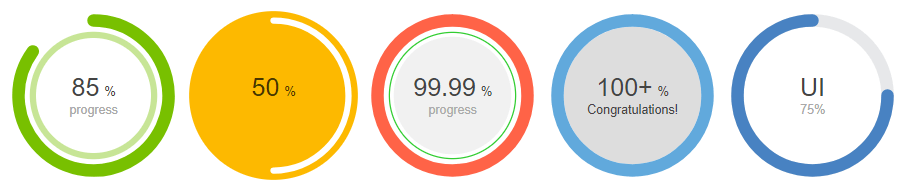
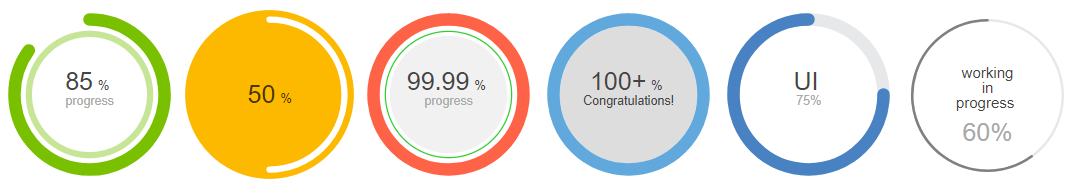
Fix #15 and #17 and release 0.9.9.

diff --git a/src/circle-progress.component.ts b/src/circle-progress.component.ts
@@ -24,11 +24,11 @@ export interface CircleProgressOptionsInterface {
   innerStrokeColor?: string;
   innerStrokeWidth?: number;
   titleFormat?: Function;
-  title?: string;
+  title?: string|Array<String>;
   titleColor?: string;
   titleFontSize?: string;
   subtitleFormat?: Function;
-  subtitle?: string;
+  subtitle?: string|Array<String>;
   subtitleColor?: string;
   subtitleFontSize?: string;
   animation?: boolean;
@@ -65,11 +65,11 @@ export class CircleProgressOptions implements CircleProgressOptionsInterface {
   innerStrokeColor = '#C7E596';
   innerStrokeWidth = 4;
   titleFormat = undefined;
-  title = 'auto';
+  title: string|Array<String> = 'auto';
   titleColor = '#444444';
   titleFontSize = '20';
   subtitleFormat = undefined;
-  subtitle = 'progress';
+  subtitle: string|Array<String> = 'progress';
   subtitleColor = '#A9A9A9';
   subtitleFontSize = '10';
   animation = true;
@@ -106,27 +106,34 @@ export class CircleProgressOptions implements CircleProgressOptionsInterface {
         [attr.stroke-width]="svg.circle.strokeWidth"/>
       <path 
         [attr.d]="svg.path.d" 
-        [attr.stroke]="svg.path.stroke" 
+        [attr.stroke]="svg.path.stroke"
         [attr.stroke-width]="svg.path.strokeWidth" 
         [attr.stroke-linecap]="svg.path.strokeLinecap"
         [attr.fill]="svg.path.fill"/>
-      <text *ngIf="options.showTitle" 
-        [attr.text-anchor]="svg.title.textAnchor" 
-        [attr.x]="svg.title.x" 
-        [attr.y]="svg.title.y">
-        <tspan 
-          [attr.font-size]="svg.title.fontSize" 
-          [attr.fill]="svg.title.color">{{svg.title.text}}</tspan>
-        <tspan *ngIf="options.showUnits" 
+      <text *ngIf="options.showTitle || options.showUnits || options.showSubtitle" 
+        alignment-baseline="baseline"
+        [attr.x]="svg.circle.cx"
+        [attr.y]="svg.circle.cy"
+        [attr.text-anchor]="svg.title.textAnchor">
+        <ng-container *ngIf="options.showTitle">
+          <tspan *ngFor="let tspan of svg.title.tspans"
+            [attr.x]="svg.title.x"
+            [attr.y]="svg.title.y"
+            [attr.dy]="tspan.dy"
+            [attr.font-size]="svg.title.fontSize" 
+            [attr.fill]="svg.title.color">{{tspan.span}}</tspan>
+        </ng-container>
+        <tspan *ngIf="options.showUnits"
           [attr.font-size]="svg.units.fontSize"
           [attr.fill]="svg.units.color">{{svg.units.text}}</tspan>
-      </text>
-      <text *ngIf="options.showSubtitle"
-        [attr.text-anchor]="svg.subtitle.textAnchor" 
-        [attr.fill]="svg.subtitle.color" 
-        [attr.x]="svg.subtitle.x"
-        [attr.y]="svg.subtitle.y">
-        <tspan [attr.font-size]="svg.subtitle.fontSize">{{svg.subtitle.text}}</tspan>
+        <ng-container *ngIf="options.showSubtitle">
+          <tspan *ngFor="let tspan of svg.subtitle.tspans"
+            [attr.x]="svg.subtitle.x"
+            [attr.y]="svg.subtitle.y"
+            [attr.dy]="tspan.dy"
+            [attr.font-size]="svg.subtitle.fontSize"
+            [attr.fill]="svg.subtitle.color">{{tspan.span}}</tspan>
+        </ng-container>
       </text>
     </svg>  
   `
@@ -161,12 +168,12 @@ export class CircleProgressComponent implements OnChanges {
   @Input() innerStrokeWidth: string | number;
 
   @Input() titleFormat: Function;
-  @Input() title: string;
+  @Input() title: string|Array<String>;
   @Input() titleColor: string;
   @Input() titleFontSize: string;
 
   @Input() subtitleFormat: Function;
-  @Input() subtitle: string;
+  @Input() subtitle: string|string[];
   @Input() subtitleColor: string;
   @Input() subtitleFontSize: string;
 
@@ -273,7 +280,85 @@ export class CircleProgressComponent implements OnChanges {
     let titleTextPercent = titlePercent > this.options.maxPercent ?
       `${this.options.maxPercent.toFixed(this.options.toFixed)}+` : titlePercent.toFixed(this.options.toFixed);
     let subtitlePercent = this.options.animateSubtitle ? percent : this.options.percent;
-    // assemble all
+    // get title object
+    let title = {
+      x: centre.x,
+      y: centre.y,
+      textAnchor: 'middle',
+      color: this.options.titleColor,
+      fontSize: this.options.titleFontSize,
+      texts: [],
+      tspans: []
+    };
+    // from v0.9.9, both title and titleFormat(...) may be an array of string.
+    if(this.options.titleFormat !== undefined && this.options.titleFormat.constructor.name === 'Function'){
+      let formatted = this.options.titleFormat(titlePercent);
+      if(formatted instanceof Array){
+        title.texts = [...formatted];
+      }else{
+        title.texts.push(formatted.toString());
+      }
+    }else{
+      if(this.options.title === 'auto'){
+        title.texts.push(titleTextPercent);
+      }else{
+        if(this.options.title instanceof Array){
+          title.texts = [...this.options.title]
+        }else{
+          title.texts.push(this.options.title.toString());
+        }
+      }
+    }
+    // get subtitle object
+    let subtitle = {
+      x: centre.x,
+      y: centre.y,
+      textAnchor: 'middle',
+      color: this.options.subtitleColor,
+      fontSize: this.options.subtitleFontSize,
+      texts: [],
+      tspans: []
+    }
+    // from v0.9.9, both subtitle and subtitleFormat(...) may be an array of string.
+    if(this.options.subtitleFormat !== undefined && this.options.subtitleFormat.constructor.name === 'Function'){
+      let formatted = this.options.subtitleFormat(subtitlePercent);
+      if(formatted instanceof Array){
+        subtitle.texts = [...formatted];
+      }else{
+        subtitle.texts.push(formatted.toString());
+      }
+    }else{
+      if(this.options.subtitle instanceof Array){
+        subtitle.texts = [...this.options.subtitle]
+      }else{
+        subtitle.texts.push(this.options.subtitle.toString());
+      }
+    }
+    // get units object
+    let units = {
+      text: `${this.options.units}`,
+      fontSize: this.options.unitsFontSize,
+      color: this.options.unitsColor
+    }
+    // get total count of text lines to be shown
+    let rowCount = 0, rowNum = 1;
+    this.options.showTitle && (rowCount += title.texts.length);
+    this.options.showSubtitle && (rowCount += subtitle.texts.length);
+    // calc dy for each tspan for title
+    if(this.options.showTitle){
+      for(let span of title.texts){
+        title.tspans.push({span: span, dy: this.getRelativeY(rowNum, rowCount)});
+        rowNum++;
+      }
+    }
+    // calc dy for each tspan for subtitle
+    if(this.options.showSubtitle){
+      for(let span of subtitle.texts){
+        subtitle.tspans.push({span: span, dy: this.getRelativeY(rowNum, rowCount)})
+        rowNum++;
+      }
+    }
+    // Bring it all together
     this.svg = {
       width: boxSize,
       height: boxSize,
@@ -303,32 +388,16 @@ export class CircleProgressComponent implements OnChanges {
         stroke: this.options.innerStrokeColor,
         strokeWidth: this.options.innerStrokeWidth,
       },
-      title: {
-        x: centre.x,
-        y: centre.y,
-        textAnchor: 'middle',
-        text:
-        (this.options.titleFormat !== undefined && this.options.titleFormat.constructor.name === 'Function')
-          ? this.options.titleFormat(titlePercent) : (this.options.title === 'auto' ? titleTextPercent : this.options.title),
-        color: this.options.titleColor,
-        fontSize: this.options.titleFontSize,
-      },
-      units: {
-        text: `${this.options.units}`,
-        fontSize: this.options.unitsFontSize,
-        color: this.options.unitsColor
-      },
-      subtitle: {
-        x: centre.x,
-        y: centre.y + 15,
-        textAnchor: 'middle',
-        text:
-        (this.options.subtitleFormat !== undefined && this.options.subtitleFormat.constructor.name === 'Function')
-          ? this.options.subtitleFormat(subtitlePercent) : this.options.subtitle,
-        color: this.options.subtitleColor,
-        fontSize: this.options.subtitleFontSize
-      },
+      title: title,
+      units: units,
+      subtitle: subtitle,
     };
+  }
+
+  private getRelativeY = (rowNum: number, rowCount: number): string => {
+    // why '-0.18em'? It's a magic number when property 'alignment-baseline' equals 'baseline'. :)
+    let initialOffset = -0.18, offset = 1;
+    return (initialOffset + offset * (rowNum-rowCount/2)).toFixed(2) + 'em';
   }
 
   private min = (a, b) => {

diff --git a/README.MD b/README.MD
@@ -103,12 +103,12 @@ outerStrokeColor | `sting` | `'#78C000'` | Stroke color of outer circle
 outerStrokeLinecap | `sting` | `'round'` | Stroke linecap of outer circle. Possible values(butt, round, square, inherit)
 innerStrokeWidth | `number` | `4` | Stroke width of inner circle
 innerStrokeColor | `sting` | `'#C7E596'` | Stroke color of inner circle
-title | `string` | `'auto'` | text showed as title. Percentage is displayed when title equals 'auto'.
-titleFormat | `Function` | `undefined` | a callback function to format title
+title | `string|Array<String>` | `'auto'` | text showed as title. Percentage is displayed when title equals 'auto'.
+titleFormat | `Function` | `undefined` | A callback function to format title. It returns a string or an array of string.
 titleColor | `string` | `'#444444'` | Font color of title
 titleFontSize | `string` | `'20'` | Font size of title
-subtitle | `string` | `'Percent'` | text showed as subtitle
-subtitleFormat | `Function` | `undefined` | a callback function to format subtitle
+subtitle | `string|Array<String>` | `'Percent'` | text showed as subtitle
+subtitleFormat | `Function` | `undefined` | A callback function to format subtitle. It returns a string or an array of string.
 subtitleColor | `string` | `'#A9A9A9'` | Font color of subtitle
 subtitleFontSize | `string` | `'10'` | Font size of subtitle
 animation | `boolean` | `true` | Whether to animate the outer circle when rendering
